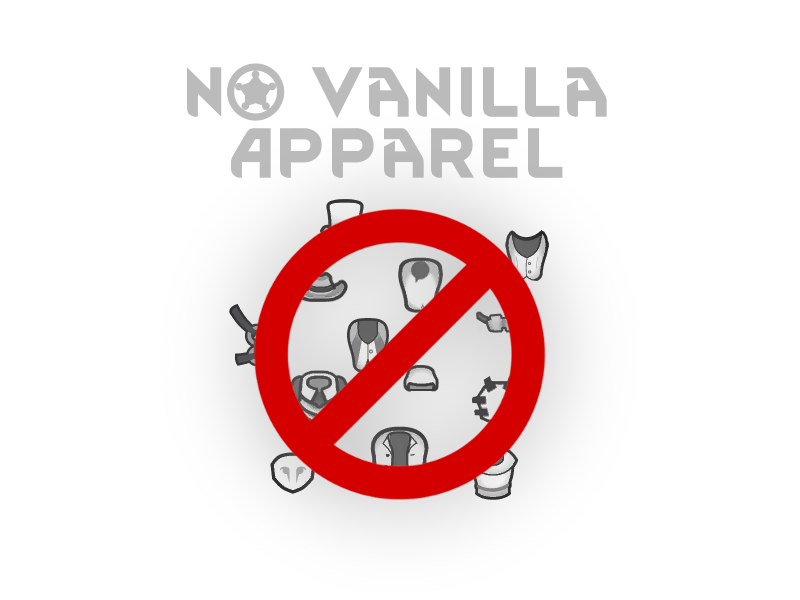
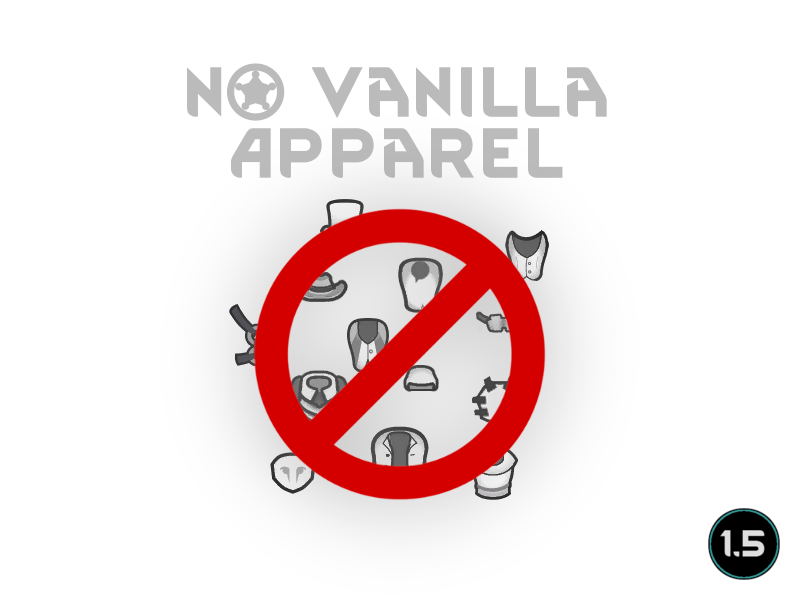
Mod updated for 1.5 and passed autotests

Changed region(s): [[0.875, 0.84, 1.0, 0.99]]

diff --git a/Source/NoVanillaApparel/NoVanillaApparel.cs b/Source/NoVanillaApparel/NoVanillaApparel.cs
@@ -11,7 +11,7 @@ internal static class NoVanillaApparel
     static NoVanillaApparel()
     {
         var vanillaApparel = (from ThingDef apparel in DefDatabase<ThingDef>.AllDefsListForReading
-            where apparel is { IsApparel: true, modContentPack: { IsOfficialMod: true }, destroyOnDrop: false }
+            where apparel is { IsApparel: true, modContentPack.IsOfficialMod: true, destroyOnDrop: false }
             select apparel).ToList();
 
         foreach (var thingDef in vanillaApparel)
@@ -45,7 +45,7 @@ internal static class NoVanillaApparel
 
         foreach (var apparelRecipe in apparelRecipes)
         {
-            apparelRecipe.factionPrerequisiteTags = new List<string> { "NotForYou" };
+            apparelRecipe.factionPrerequisiteTags = ["NotForYou"];
         }
 
         DefDatabase<RecipeDef>.ResolveAllReferences();

diff --git a/README.md b/README.md
@@ -1,6 +1,6 @@
 # NoVanillaApparel
 
-![Image](https://i.imgur.com/buuPQel.png)
+![Image](https://i.imgur.com/iCj5o7O.png)
 
 
 If you have any suggestion on more properties to sort on, leave a comment here or on the Discord-server!
@@ -15,24 +15,26 @@ Base-classes are untouched so they still can be used by mods.
 
 May cause errors if no other apparel-mods are loaded.
 
-![Image](https://i.imgur.com/O0IIlYj.png)
+![Image](https://i.imgur.com/Ds0rBAD.png)
 
 Since modding is just a hobby for me I expect no donations to keep modding. If you still want to show your support you can gift me anything from my https://store.steampowered.com/wishlist/id/Mlie]Wishlist or buy me a cup of tea.
 
-https://ko-fi.com/G2G55DDYD]![Image](https://i.imgur.com/Utx6OIH.png)
+https://ko-fi.com/G2G55DDYD]![Image](https://i.imgur.com/VWG0yff.png)
 
 
-![Image](https://i.imgur.com/PwoNOj4.png)
+![Image](https://i.imgur.com/5xwDG6H.png)
 
 
 
 -  See if the the error persists if you just have this mod and its requirements active.
 -  If not, try adding your other mods until it happens again.
--  Post your error-log using https://steamcommunity.com/workshop/filedetails/?id=818773962]HugsLib and command Ctrl+F12
+-  Post your error-log using https://steamcommunity.com/workshop/filedetails/?id=818773962]HugsLib or the standalone https://steamcommunity.com/sharedfiles/filedetails/?id=2873415404]Uploader and command Ctrl+F12
 -  For best support, please use the Discord-channel for error-reporting.
 -  Do not report errors by making a discussion-thread, I get no notification of that.
 -  If you have the solution for a problem, please post it to the GitHub repository.
+-  Use https://github.com/RimSort/RimSort/releases/latest]RimSort to sort your mods
 
 
 
+https://steamcommunity.com/sharedfiles/filedetails/changelog/2235398051]![Image](https://img.shields.io/github/v/release/emipa606/NoVanillaApparel?label=latest%20version&style=plastic&labelColor=0070cd&color=white)
 
